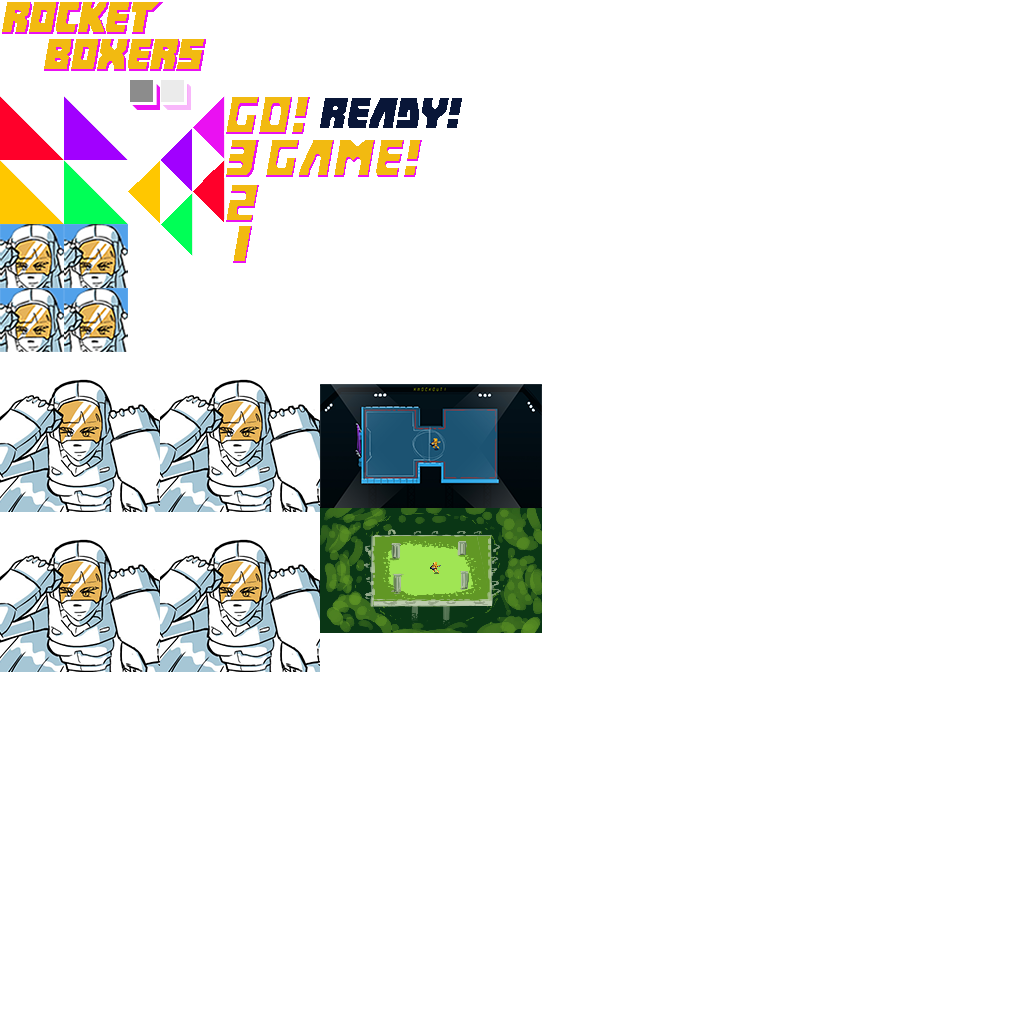
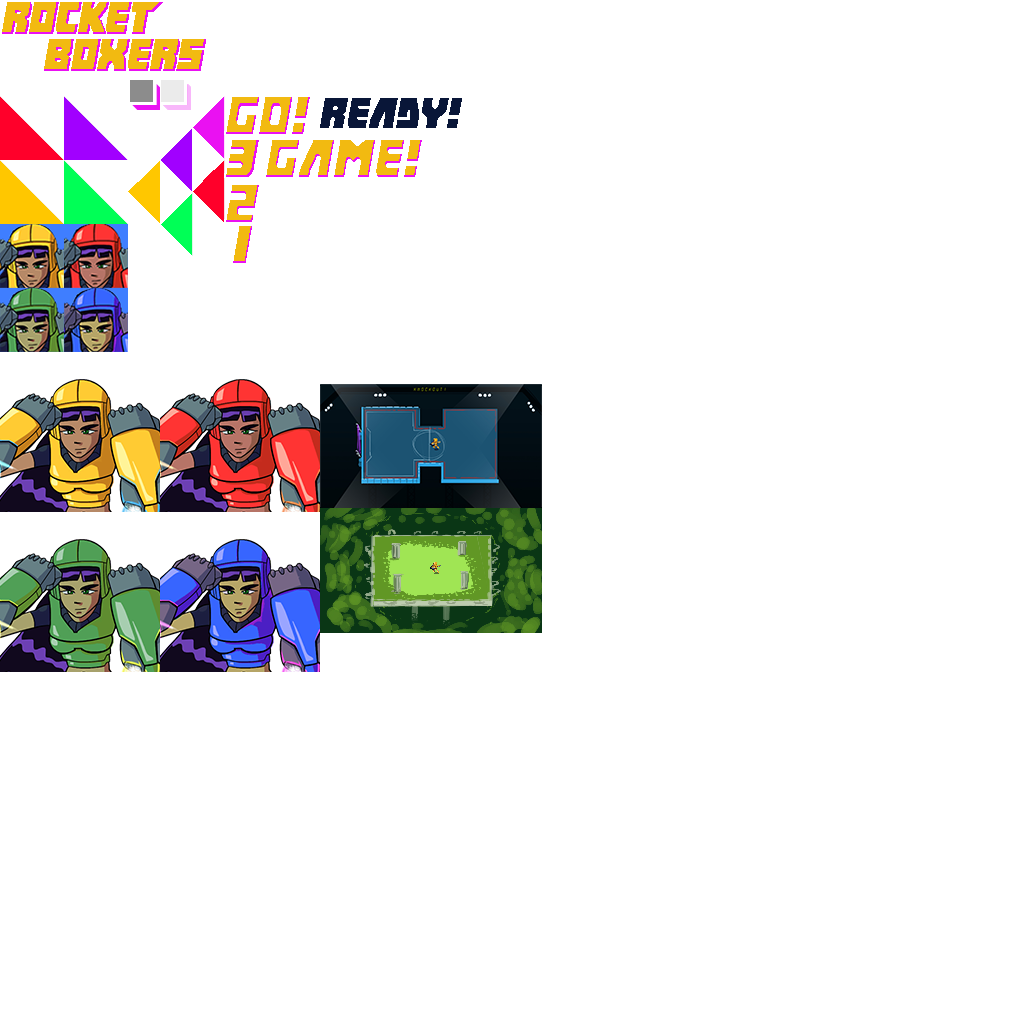
Updated character art in UI

Changed region(s): [[0.0, 0.2188, 0.3125, 0.6562]]

diff --git a/RocketBoxers/TopDown/Enums.cs b/RocketBoxers/TopDown/Enums.cs
@@ -15,141 +15,6 @@ namespace RocketBoxers.Entities
         DownRight = 7
     }
 
-
-    public static class TopDownDirectionExtensions
-    {
-        public static TopDownDirection FromDirection(Microsoft.Xna.Framework.Vector2 direction, PossibleDirections possibleDirections)
-        {
-            return FromDirection(direction.X, direction.Y, possibleDirections);
-        }
-
-        public static TopDownDirection FromDirection(Microsoft.Xna.Framework.Vector3 direction, PossibleDirections possibleDirections)
-        {
-            return FromDirection(direction.X, direction.Y, possibleDirections);
-        }
-
-        public static TopDownDirection FlipX(this TopDownDirection directionToFlip)
-        {
-            switch(directionToFlip)
-            {
-                case TopDownDirection.Left: return TopDownDirection.Right;
-                case TopDownDirection.UpLeft: return TopDownDirection.UpRight;
-                case TopDownDirection.Up: return TopDownDirection.Up;
-                case TopDownDirection.UpRight: return TopDownDirection.UpLeft;
-                case TopDownDirection.Right: return TopDownDirection.Left;
-                case TopDownDirection.DownRight: return TopDownDirection.DownLeft;
-                case TopDownDirection.Down: return TopDownDirection.Down;
-                case TopDownDirection.DownLeft: return TopDownDirection.DownRight;
-            }
-
-            throw new System.Exception();
-        }
-
-        public static TopDownDirection FlipY(this TopDownDirection directionToFlip)
-        {
-            switch (directionToFlip)
-            {
-                case TopDownDirection.Left: return TopDownDirection.Left;
-                case TopDownDirection.UpLeft: return TopDownDirection.DownLeft;
-                case TopDownDirection.Up: return TopDownDirection.Down;
-                case TopDownDirection.UpRight: return TopDownDirection.DownRight;
-                case TopDownDirection.Right: return TopDownDirection.Right;
-                case TopDownDirection.DownRight: return TopDownDirection.UpRight;
-                case TopDownDirection.Down: return TopDownDirection.Up;
-                case TopDownDirection.DownLeft: return TopDownDirection.UpLeft;
-            }
-            throw new System.Exception();
-        }
-
-        public static TopDownDirection Mirror(this TopDownDirection directionToFlip)
-        {
-            switch (directionToFlip)
-            {
-                case TopDownDirection.Left: return TopDownDirection.Right;
-                case TopDownDirection.UpLeft: return TopDownDirection.DownRight;
-                case TopDownDirection.Up: return TopDownDirection.Down;
-                case TopDownDirection.UpRight: return TopDownDirection.DownLeft;
-                case TopDownDirection.Right: return TopDownDirection.Left;
-                case TopDownDirection.DownRight: return TopDownDirection.UpLeft;
-                case TopDownDirection.Down: return TopDownDirection.Up;
-                case TopDownDirection.DownLeft: return TopDownDirection.UpRight;
-            }
-            throw new System.Exception();
-        }
-
-
-
-
-        public static TopDownDirection FromDirection(float x, float y, PossibleDirections possibleDirections)
-        {
-            if(x == 0 && y == 0)
-            {
-                throw new System.Exception("Can't convert 0,0 to a direction");
-            }
-
-            switch (possibleDirections)
-            {
-                case PossibleDirections.LeftRight:
-                    if (x > 0)
-                    {
-                        return TopDownDirection.Right;
-                    }
-                    else if (x < 0)
-                    {
-                        return TopDownDirection.Left;
-                    }
-                    break;
-                case PossibleDirections.FourWay:
-                    var absXVelocity = System.Math.Abs(x);
-                    var absYVelocity = System.Math.Abs(y);
-
-                    if (absXVelocity > absYVelocity)
-                    {
-                        if (x > 0)
-                        {
-                            return TopDownDirection.Right;
-                        }
-                        else if (x < 0)
-                        {
-                            return TopDownDirection.Left;
-                        }
-                    }
-                    else if (absYVelocity > absXVelocity)
-                    {
-                        if (y > 0)
-                        {
-                            return TopDownDirection.Up;
-                        }
-                        else if (y < 0)
-                        {
-                            return TopDownDirection.Down;
-                        }
-                    }
-                    break;
-                case PossibleDirections.EightWay:
-                    if (x != 0 || y != 0)
-                    {
-                        var angle = FlatRedBall.Math.MathFunctions.RegulateAngle(
-                            (float)System.Math.Atan2(y, x));
-
-                        var ratioOfCircle = angle / Microsoft.Xna.Framework.MathHelper.TwoPi;
-
-                        var eights = FlatRedBall.Math.MathFunctions.RoundToInt(ratioOfCircle * 8) % 8;
-
-                        return (TopDownDirection)eights;
-                    }
-
-                    break;
-            }
-
-            throw new System.Exception();
-        }
-    }
-
-
-
-
-
     public enum PossibleDirections
     {
         LeftRight,
